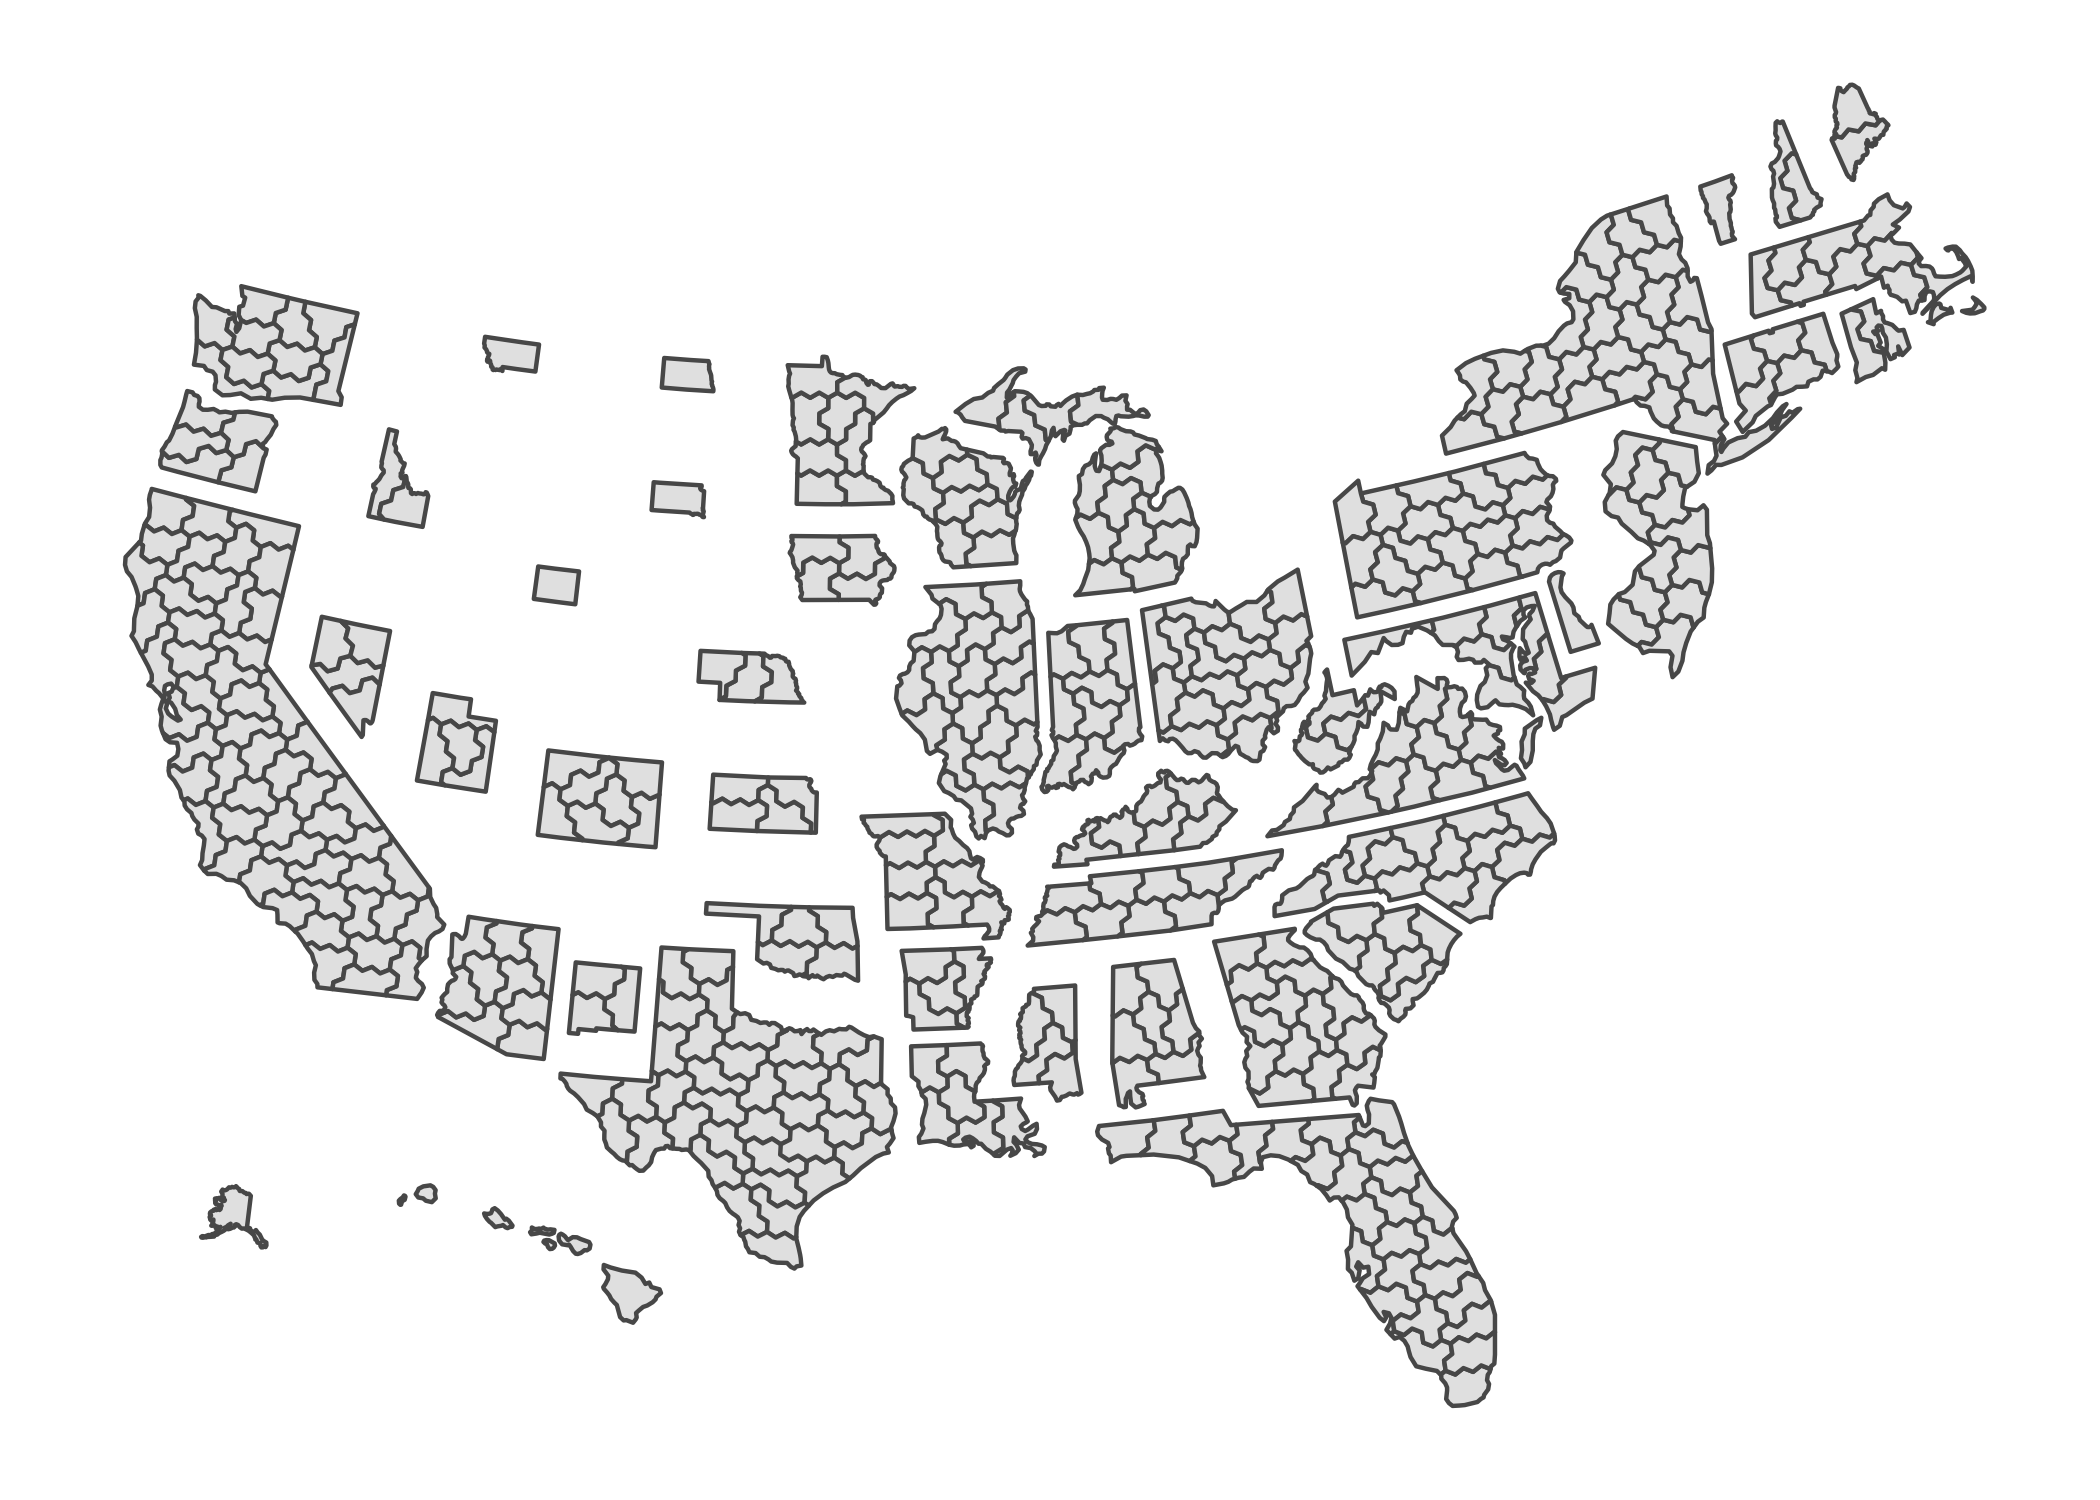
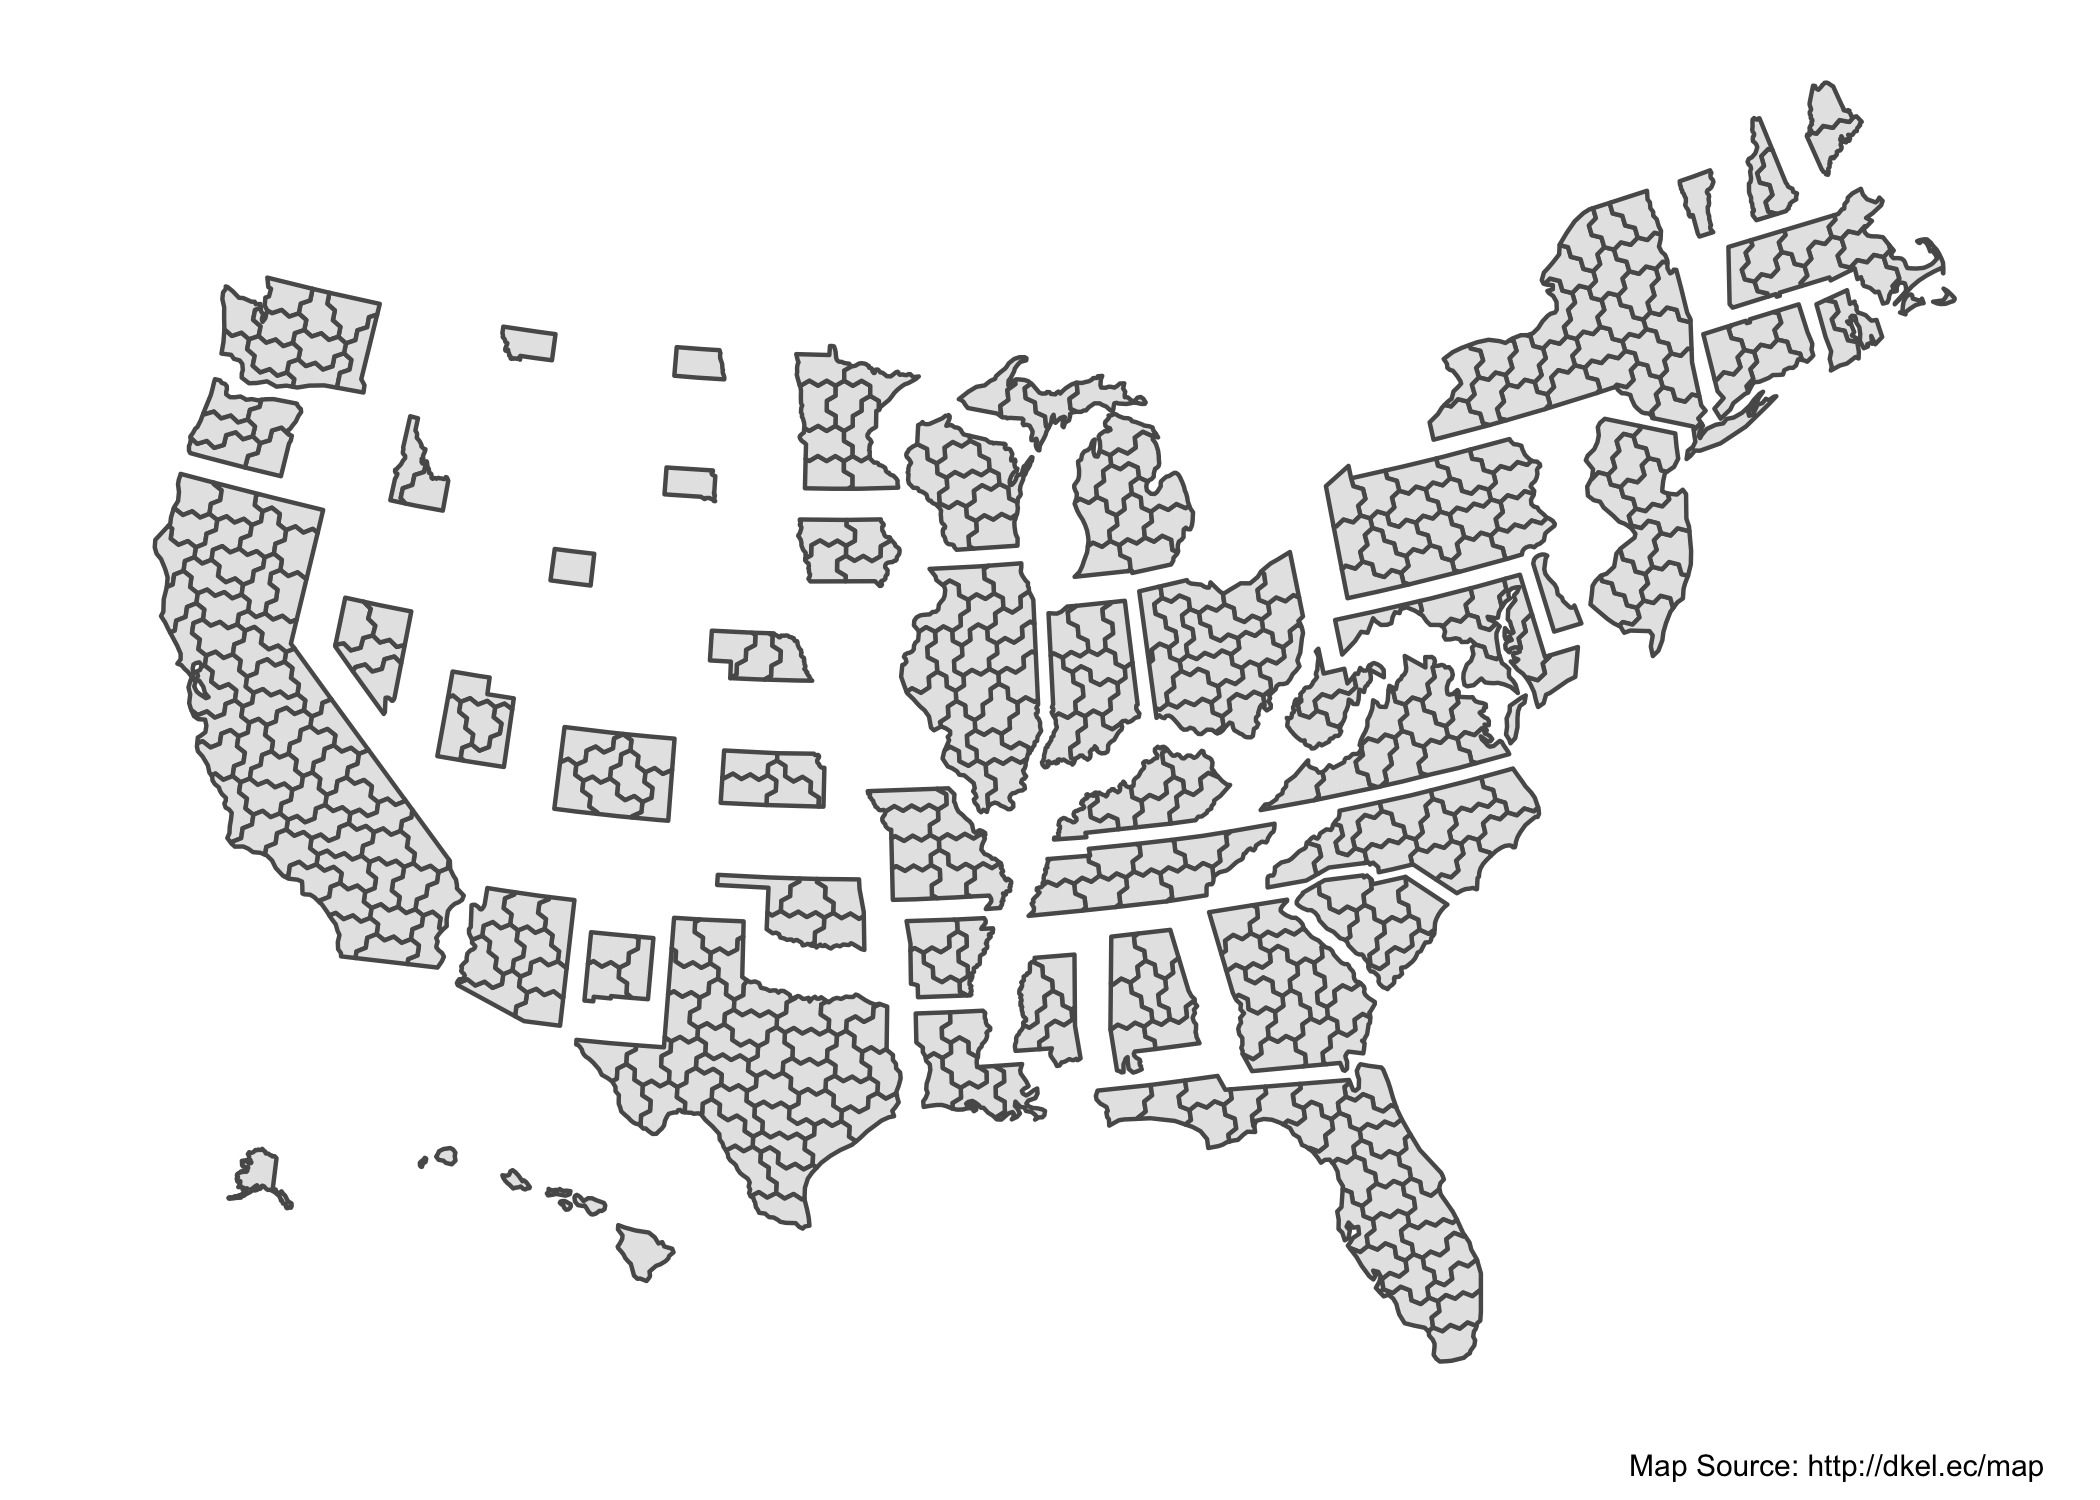
Add Daily Kos Election org citations

diff --git a/README.md b/README.md
@@ -6,12 +6,14 @@
 <!-- badges: start -->
 <!-- badges: end -->
 
-The goal of donnermap is to quickly plot data visualizations involving
-states and congressional districts. Districts are drawn roughly
-proportional to the number of seats they have in the US Congress. This
-is beneficial for some visualizations where geographic maps will obscure
-densely populated areas such as New York City, Los Angeles, Miami, and
-Houston.
+The goal of `donnermap` is to quickly plot data visualizations involving
+states and congressional districts.
+
+It uses the Daily Kos Election (<http://dkel.ec/map>) 2.0 Congressional
+District Map, where districts are drawn roughly proportional to the
+number of seats they have in the US Congress. This is beneficial for
+some visualizations where traditional maps will obscure densely
+populated areas such as New York City, Los Angeles, Miami, and Houston.
 
 The package is named after Daniel Donner, who made this map. A
 discussion of the map can be found
@@ -37,8 +39,13 @@ library(dplyr)
 library(scales)
 ```
 
+The objects `cd_shp` (and `st_shp`, for states) is a `sf`-class R object
+that includes the Daily Kos Elections cartogram as its geometry. It can
+be easily plotted with `geom_sf()`.
+
 ``` r
-ggplot(cd_shp) + geom_sf() + theme_map()
+ggplot(cd_shp) + geom_sf() + theme_map() +
+  labs(caption = "Map Source: http://dkel.ec/map")
 ```
 
 <img src="man/figures/README-base_map-1.png" width="100%" />
@@ -61,7 +68,7 @@ ggplot(cd_race) +
     labels = percent_format(accuracy = 1)) +
   facet_wrap(~ race) +
   theme_map() +
-  labs(caption = "Map Source: http://dkel.ec/map. Race Data: ACS 2014-2018, obtained through tidycensus.") +
+  labs(caption = "Map Source: http://dkel.ec/map. Race Data: ACS 2014-2018, obtained through Kyle Walker's tidycensus.") +
   theme(legend.position = c(0.75, 0.1))
 ```
 
